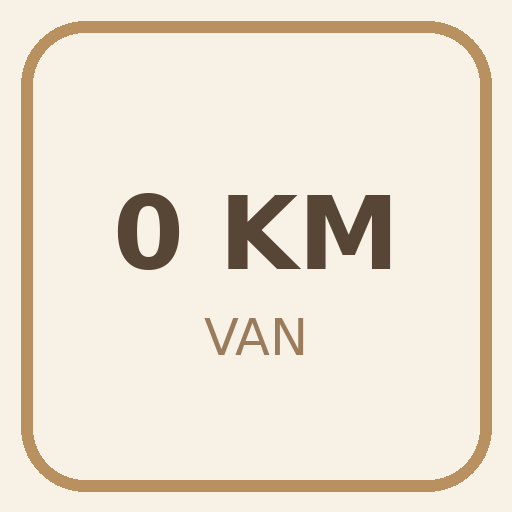
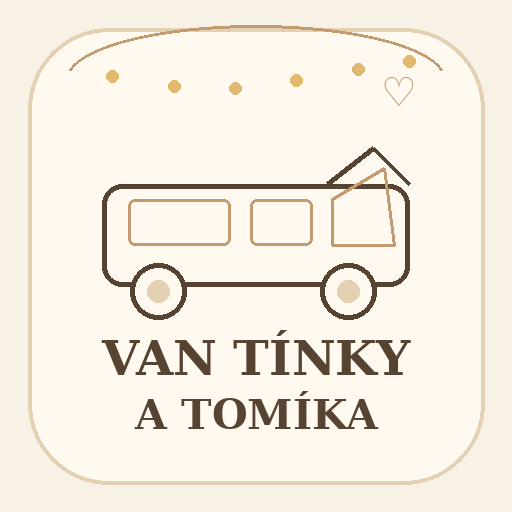
Add files via upload

diff --git a/index.html b/index.html
@@ -9,7 +9,7 @@
   <link rel="manifest" href="/manifest.webmanifest">
   <meta name="theme-color" content="#c79a67">
   <meta name="apple-mobile-web-app-capable" content="yes">
-  <meta name="apple-mobile-web-app-title" content="0 KM">
+  <meta name="apple-mobile-web-app-title" content="Náš van">
   <link rel="apple-touch-icon" href="/icons/icon-192.png">
 </head>
 <body>
